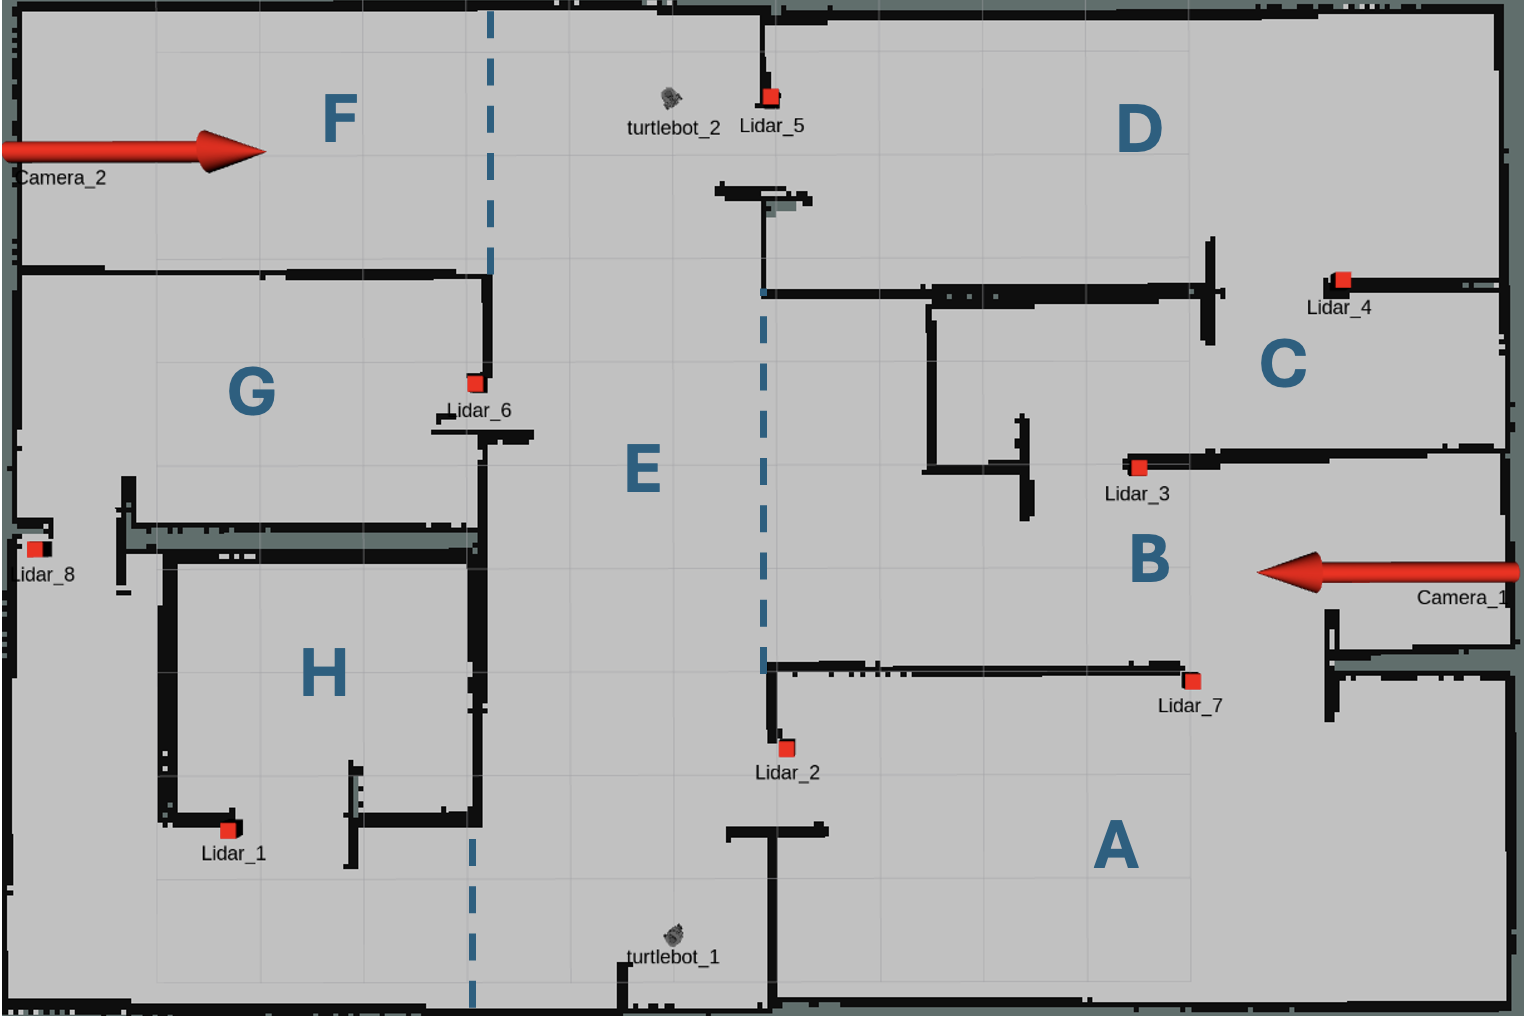
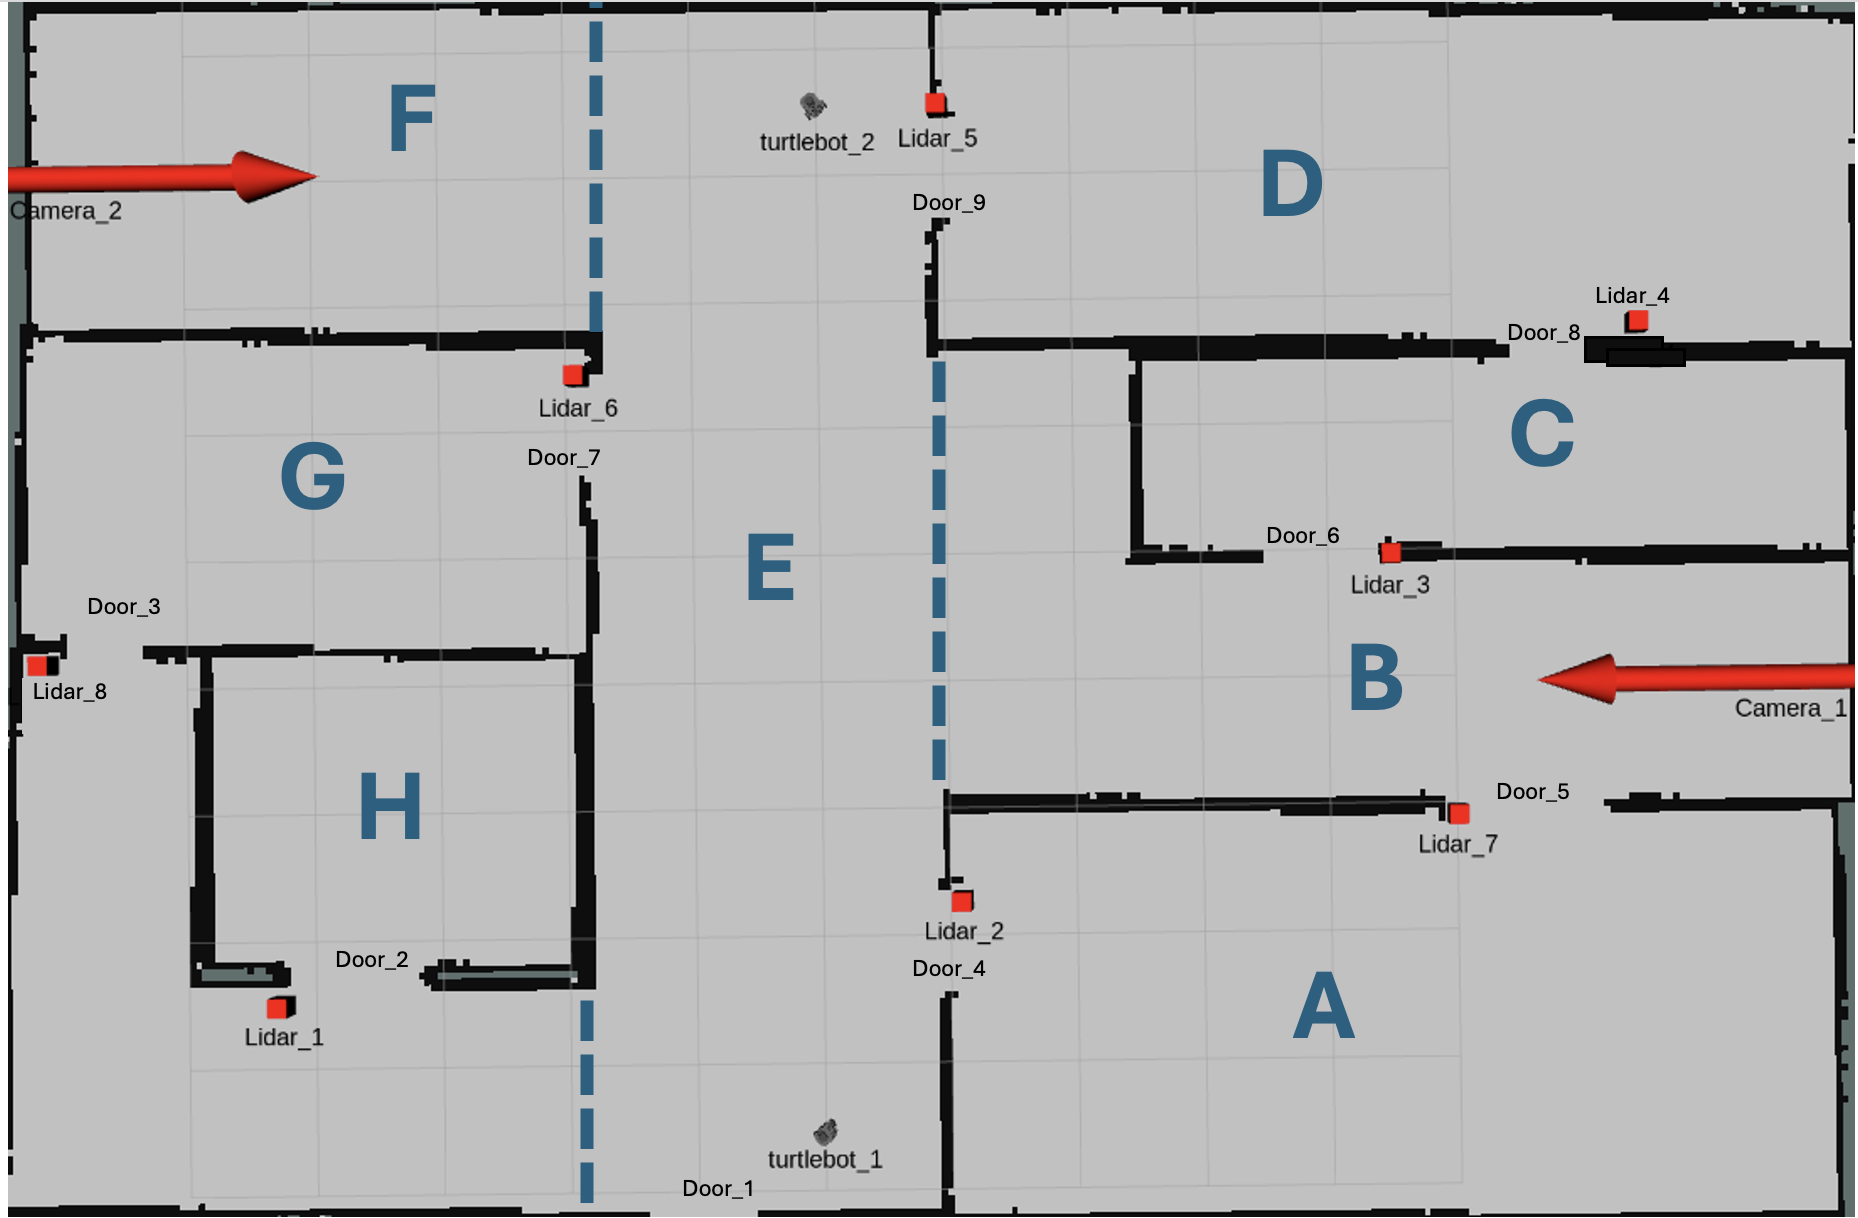
added reasoning models

diff --git a/llm_interface/src/app_ros.py b/llm_interface/src/app_ros.py
@@ -45,6 +45,7 @@ class ChatNode():
         if required_assistant not in assistants_names_list:
             self.assistant = self.client.beta.assistants.create(
                 model= self.model_to_use,
+                #temperature=0.1,
                 name = required_assistant,
                 tools=[
                         # {
@@ -239,11 +240,11 @@ class ChatNode():
                 )
             print("Already created assistant considered")
 
-
-        self.img_file = self.client.files.create(
-            file=open(f"{script_dir}/static/uploads/building_plan.png", "rb"),
-            purpose="vision"
-        )
+        if self.model_to_use == "gpt-4o":
+            self.img_file = self.client.files.create(
+                file=open(f"{script_dir}/static/uploads/building_plan.png", "rb"),
+                purpose="vision"
+            )
         self.info_file = self.client.files.create(
             file=open(f"{script_dir}/../config/info.json", "rb"), 
             purpose="assistants"
@@ -261,10 +262,11 @@ The architecture is composed by:
 
 # Environment Overview
 The provided file **building_plan.png** is the map of the considered indoor environment with the following specifications:
-- **8 Areas (A - H):** Defined by impassable walls (solid black lines) and conceptual boundaries (blue dotted lines).
-- **Walkable Space:** Light gray regions. Each room has one or more **doors** controlled by actuators via ROS services.
-- **8 Lidar Sensors:** One at each room entrance, labeled `Lidar_1` through `Lidar_8` (red squares on the map).
-- **2 Cameras:** `Camera_1` and `Camera_2` (red arrows on the map), available via ROS topics.
+- **8 Areas (A - H):** Defined by impassable walls (solid black lines) and imaginary boundaries (blue dashed lines).
+- **Walkable Space:** Light gray regions. Each room has one or more **doors** controlled by actuators via ROS services;
+- **8 Lidar Sensors:** One at each room entrance, labeled `Lidar_1` through `Lidar_8` (red squares on the map);
+- **9 Doors:** labeled `Door_1` through `Door_9`;  
+- **2 Cameras:** `Camera_1` and `Camera_2` (red arrows on the map), available via ROS topics;
 - **2 Mobile Robots:**
   - `turtlebot3_1`
   - `turtlebot3_2`
@@ -304,16 +306,16 @@ The plan must be reasoned, including logical and coherent actions, ensuring the 
 
 1. **System State Verification:** 
     Before performing any real-world function you must have an updated status of the environment (e.g., positions and orientations of robots, states of sensors and actuators, 
-    and positions of doors) . You will receive that from data mediator in case of intrusion or you can retrieve it by using the `retrieve_system_state` function. 
+    and positions of doors). You will receive that from data mediator in case of intrusion or you can retrieve it by using the `retrieve_system_state` function. 
     This ensures you have an up-to-date overview of the system's condition. Don't consider the conversation history to understand the system state.
 
 2. **Spatial information:** 
-    Before performing any real-world function you must consider the information in the info.json file.
+    Before performing any real-world function you must consider the information in the info.json file and use the building_plan.png to better understand the environment (e.g. to understand which is the optimal sequence of doors ithat ensure the shortest path).
 
 3. **Door Control:** 
     If the action (from user request or proposed plan) involve closing or opening the doors, you must use the function 'control_actuator' with arguments obtained from info.json file.
     Before sending a robot to an area that involves passing through doors, you must understand which doors should be considered to reach that area considering the current position of the indicated robot, the coordinates of the indicated area and the positions of the doors near that area.
-    Then you have to verify the status of the these doors. If doors are closed, you will have to open them using the `control_actuator` function before proceeding.
+    Then you have to verify the status of the these doors. If doors are closed, you will have to open them using the `control_actuator` function before proceeding. If the door is already open you can avoid to open again the door.
 
 3. **Sending Robots:** 
     Once you know the state of the doors and the robots, use the `send_robot_to_area` function and coordinates obtained from info.json file to send the robot to the target area. 
@@ -327,7 +329,7 @@ The plan must be reasoned, including logical and coherent actions, ensuring the 
 
 
 Every time you perform an action in the environment, You will receive a positive or negative feedback about the success of the action. 
-If the feedback is negative, you must reason about the failure and try again with corrected information. A new action must be performed after receiving the positive feedback from the previous one. 
+If the feedback is negative, you must reason about the failure and try again with corrected information **without asking permission to the user**. 
 If you fail to perform an action two times, you can pass to the next action of the plan informing the user about the error.
 
 
@@ -444,44 +446,68 @@ If any detail is unclear (e.g., ambiguous area or actions to do) or you have dou
             threads_name_list, threads_id_list = extractThreadsFromJson(self.client, script_dir)
 
 
+        if self.model_to_use == "gpt-4o":
+            self.thread = self.client.beta.threads.create(
+                    metadata={
+                        "thread_name":required_thread_name
+                        },
+                    messages=[
+                        {
+                            "role": "user",
+                            "content": [
+                                {
+                                    "type": "text",
+                                    "text": self.task_instructions
+                                },
+                                {
+                                    "type": "image_file",       # Immagini prese dal computer
+                                    "image_file": {
+                                        "file_id": self.img_file.id,
+                                        "detail":"high" # Può essere "low" e "high" e indica la risoluzione con cui verrà analizzata l'immagine
+                                        } 
+                                },
+                            ],
+                            "attachments": [
+                                { 
+                                    "file_id": self.info_file.id, 
+                                    "tools": [
+                                        {
+                                            "type": "file_search"
+                                            }
+                                        ] 
+                                    }
+                            ],
+                        }
+                    ]
+                )
+        elif self.model_to_use == "o3-mini":
+            self.thread = self.client.beta.threads.create(
+                    metadata={
+                        "thread_name":required_thread_name
+                        },
+                    messages=[
+                        {
+                            "role": "user",
+                            "content": [
+                                {
+                                    "type": "text",
+                                    "text": self.task_instructions
+                                },
+                            ],
+                            "attachments": [
+                                { 
+                                    "file_id": self.info_file.id, 
+                                    "tools": [
+                                        {
+                                            "type": "file_search"
+                                            }
+                                        ] 
+                                    }
+                            ],
+                        }
+                    ]
+                )
 
-        self.thread = self.client.beta.threads.create(
-                metadata={
-                    "thread_name":required_thread_name
-                    },
-                messages=[
-                    {
-                        "role": "user",
-                        "content": [
-                            {
-                                "type": "text",
-                                "text": self.task_instructions
-                            },
-                            #   {
-                            #     "type": "image_url",      # Immagini prese da internet
-                            #     "image_url": {"url": "https://example.com/image.png"} 
-                            #   },
-                            {
-                                "type": "image_file",       # Immagini prese dal computer
-                                "image_file": {
-                                    "file_id": self.img_file.id,
-                                    "detail":"high" # Può essere "low" e "high" e indica la risoluzione con cui verrà analizzata l'immagine
-                                    } 
-                            },
-                        ],
-                        "attachments": [
-                            { 
-                                "file_id": self.info_file.id, 
-                                "tools": [
-                                    {
-                                        "type": "file_search"
-                                        }
-                                    ] 
-                                }
-                        ],
-                    }
-                ]
-            )
         
         print("New thread created")
 

diff --git a/utilities/src/marker_visualization_node.py b/utilities/src/marker_visualization_node.py
@@ -14,7 +14,7 @@ class Node():
 
     def __init__(self):
 
-        rospy.init_node("MarkerVisualizer",anonymous=True)
+        rospy.init_node("marker_visualization_node",anonymous=True)
 
 
         self.subscriber = rospy.Subscriber("/data", String, self.publishMarkerArrayCallback, queue_size=1)
